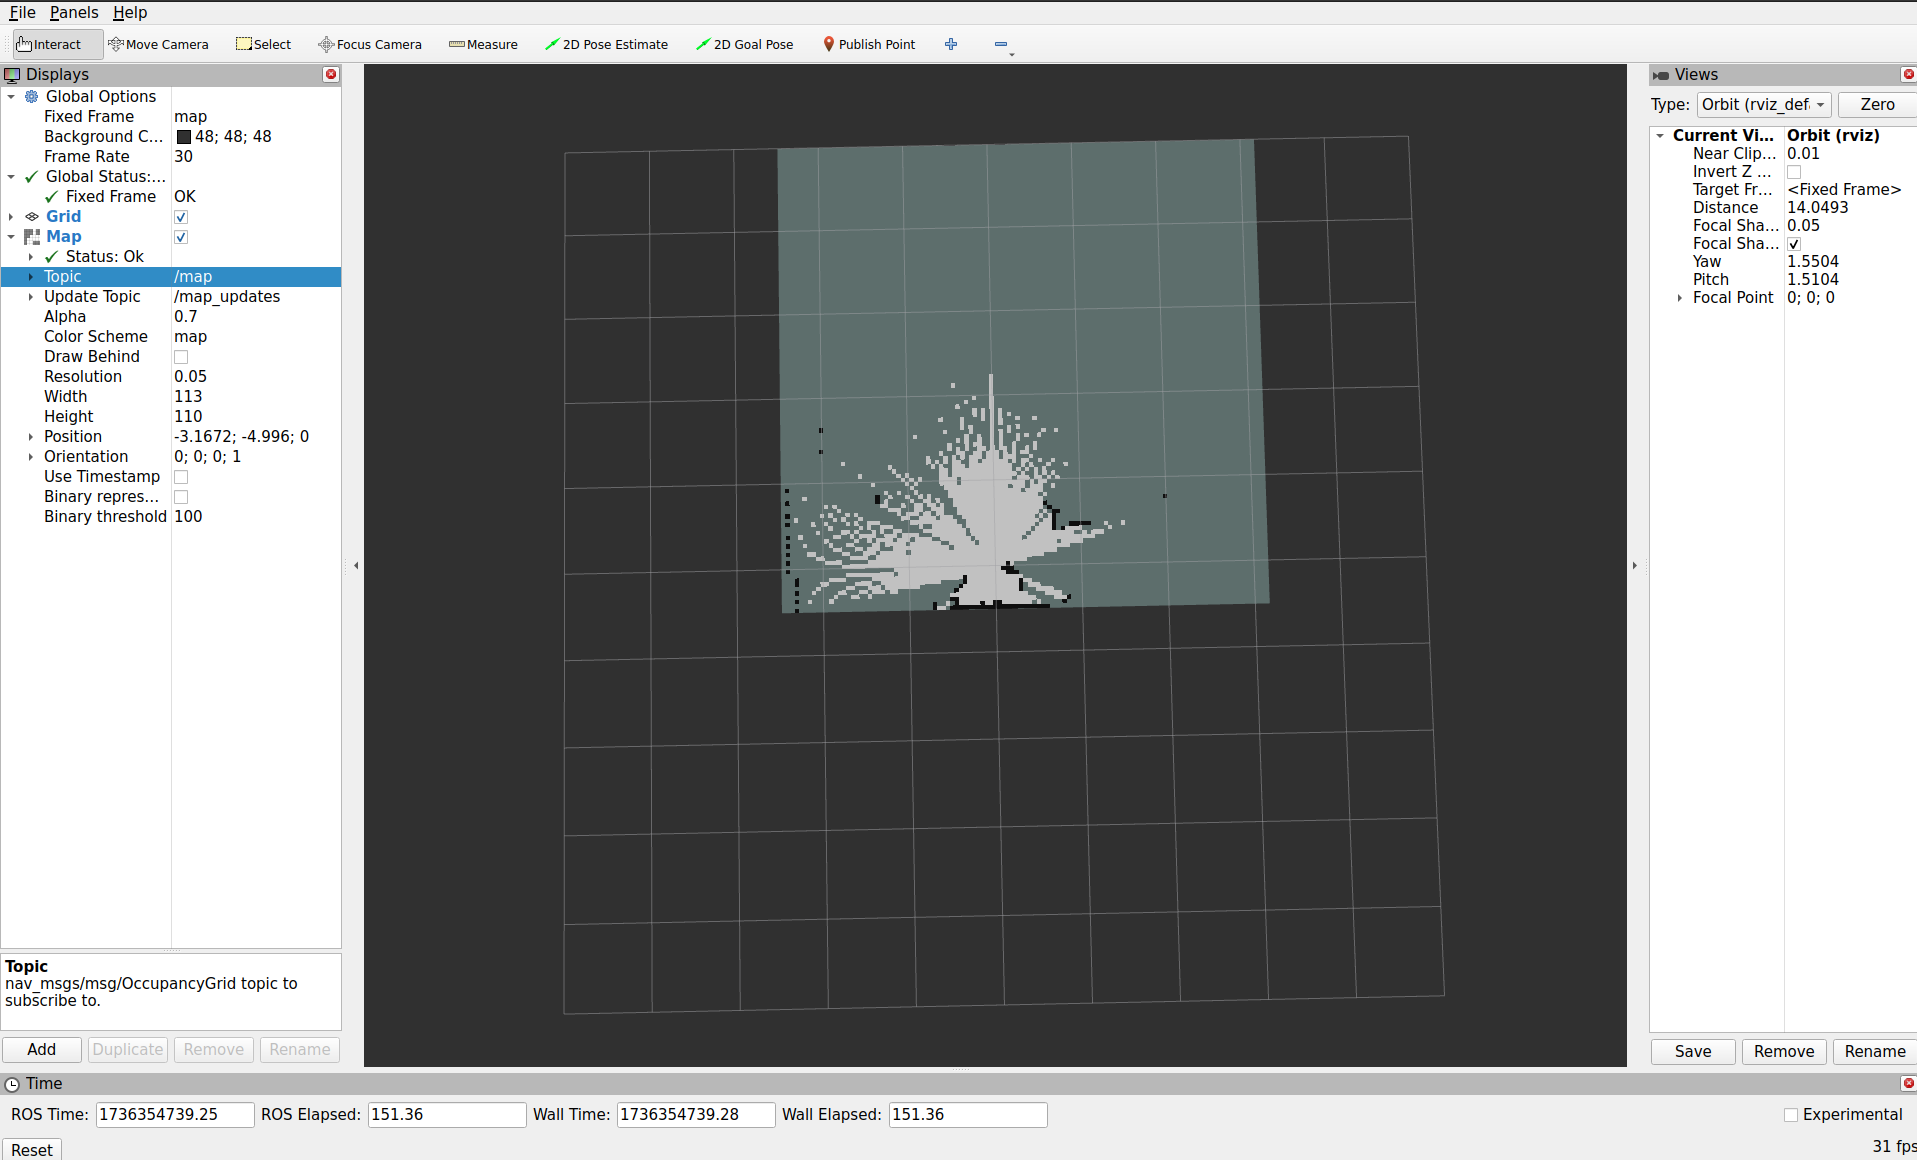
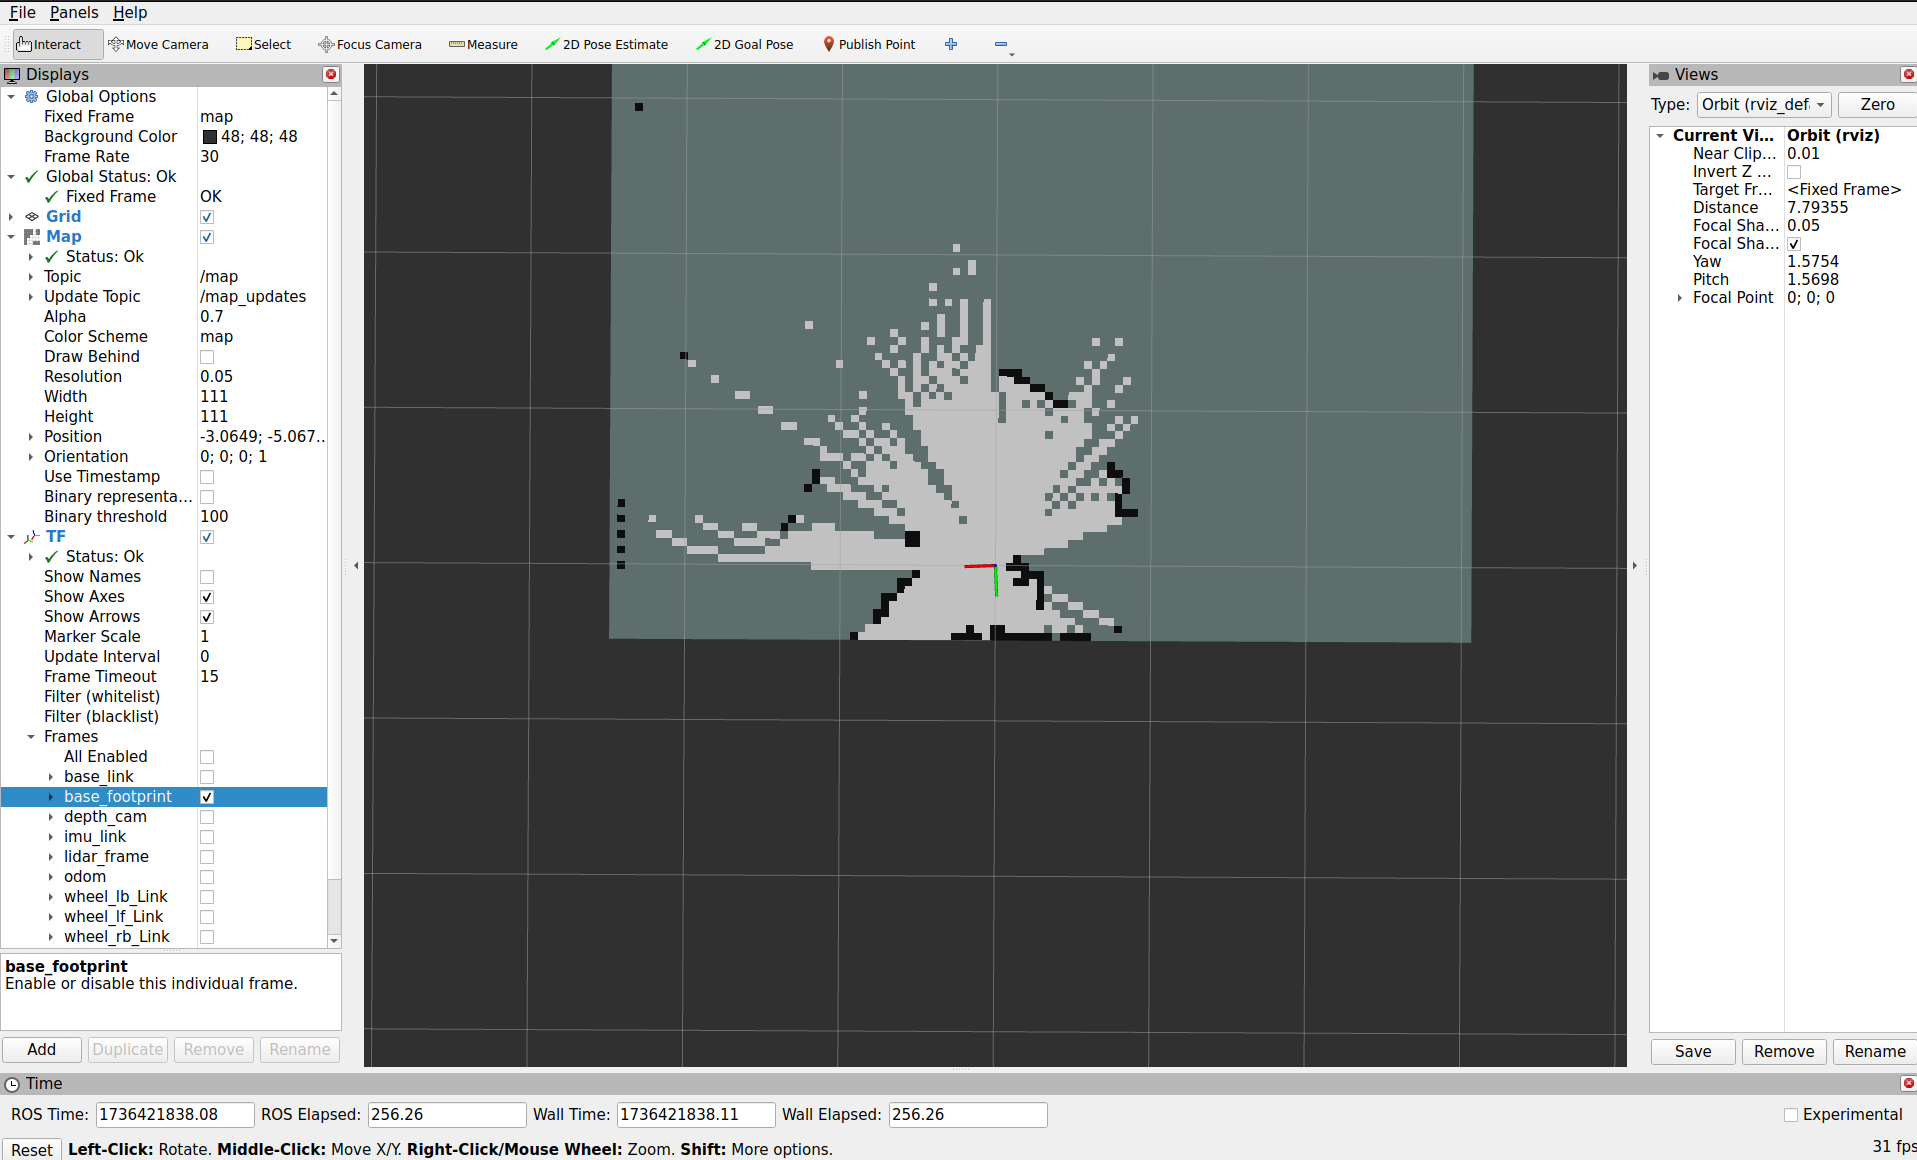
changes to reamde

diff --git a/README.md b/README.md
@@ -1,33 +1,34 @@
 # MentorPI mecanum-wheel development starter pack
-This repository aims to provide a reasonable starting position for ROS2 development on the Raspberry Pi 5 based MentorPi robot platform from Hiwonder. Specifically the version equipped with the mecanum-wheel drivetrain and the gimbal monocular camera. See: https://www.hiwonder.com/collections/raspberrypi-bionic-robot/products/mentorpi-m1?variant=41285892702295
+This repository aims to provide a reasonable starting position for ROS2 development on the Raspberry Pi 5 based MentorPi robot platform from Hiwonder. Specifically, the version equipped with the mecanum-wheel drivetrain and the gimbal monocular camera. See: https://www.hiwonder.com/collections/raspberrypi-bionic-robot/products/mentorpi-m1?variant=41285892702295
 
 # General Information
-The MentorPi plaform from Hiwonder is a Raspberry Pi 5 based robot platform. As the Raspberry Pi 5 runs normal linux in this setup, it can be thought of as a normal computer. It can therefore be used with a mouse, keyboard and a monitor as one would expect from a standard computer.
-As a development framework, ROS2 is used. ROS2 is an open-source framework for building robotic applications. It acts as the middleware between the different components of the robot and also provides tools, libraries, hardware abstraction, device drivers and more for standardised robot development.
+The MentorPi platform from Hiwonder is a Raspberry Pi 5 based robot platform. As the Raspberry Pi 5 runs normal Linux in this setup, it can be thought of as a normal computer. It can therefore be used with a mouse, keyboard and monitor as one would expect from a standard computer.
+As a development framework, ROS2 is used. ROS2 is an open-source framework for building robotic applications. It acts as the middleware between the different components of the robot and also provides tools, libraries, hardware abstraction, device drivers and more for standardized robot development.
 For more information, see the ROS2 documentation: https://docs.ros.org/en/jazzy/index.html
 
+
 # Basic Setup
-In this chapter the basic setup of the robot is explained. You will install Linux, ROS2 and all the necessary drivers for the motors, servos, camera and lidar.
+In this chapter, the basic setup of the robot is explained. You will install Linux, ROS2 and all the necessary drivers for the motors, servos, camera and LIDAR.
 Ubuntu 24.04 together with ROS2 Jazzy is used in this project.
 
 ## Linux Setup
 First, Ubuntu 24.04 needs to be installed on the Raspberry Pi 5.
 
 1. **Flash Linux Image**  
-The easiest way to flash the linux image is via the Raspberry Pi imager.
-* For windows you can download the program here: https://www.raspberrypi.com/software/
-* On Ubuntu you can simply install the program via the following command:
+The easiest way to flash the Linux image is via the Raspberry Pi imager.
+* For Windows, you can download the program here: https://www.raspberrypi.com/software/
+* On Ubuntu, you can simply install the program via the following command:
 ```bash
 sudo apt install rpi-imager
 ```
-In the Raspberry Pi imager tool choose "Raspberry Pi 5" under <Device> and under <Choose OS>: "Other general-purpose OS" -> "Ubuntu" -> "Ubuntu Desktop 24.04.1 LTS (64-bit)". Then choose the micro sd card (at least 64GB) you want to install the OS on and click next to continue following the instructions of the tool.
+In the Raspberry Pi imager tool, choose "Raspberry Pi 5" under <Device> and under <Choose OS>: "Other general-purpose OS" -> "Ubuntu" -> "Ubuntu Desktop 24.04.1 LTS (64-bit)". Then choose the micro SD-card (at least 64GB) you want to install the OS on and click next to continue following the instructions of the tool.
 
 2. **Boot for the first time**
-* Put the SD card in the Raspberry Pi 5, connect mouse, keyboard and a monitor via a micro HDMI cable and boot the Raspberry Pi 5.
+* Put the SD card in the Raspberry Pi 5, connect a mouse, keyboard and monitor via a micro HDMI cable and boot the Raspberry Pi 5.
 * Follow the installer for Ubuntu.
 
 ## Installing ROS2
-* Follow this guide: https://docs.ros.org/en/jazzy/Installation/Ubuntu-Install-Debs.html to install ROS2 Jazzy on the Raspberry Pi 5. For development it makes a lot of sense to also have an additional computer with ROS2 installed. This makes remotely diagnosing and controlling the robot much easier. Chose the **Desktop Install** both for the robot and, if applicable, your computer. 
+* Follow this guide: https://docs.ros.org/en/jazzy/Installation/Ubuntu-Install-Debs.html to install ROS2 Jazzy on the Raspberry Pi 5. For development, it makes a lot of sense to also have an additional computer with ROS2 installed. This makes remotely diagnosing and controlling the robot much easier. Chose the **Desktop Install** both for the robot and, if applicable, your computer. 
 * Add 
 ```bash
 source /opt/ros/jazzy/setup.bash
@@ -35,7 +36,7 @@ source /opt/ros/jazzy/setup.bash
 to your .bashrc file in order to source the ROS2 workspace every time a terminal is started.
 
 ### Install Additional Dependencies
-First update your package manager
+First, update your package manager:
 ```bash
 sudo apt update
 ```
@@ -79,7 +80,7 @@ sudo apt install python3-pydantic
 
 ## Setup your ROS2 workspace
 In addition to the global ROS2 workspace we just installed in /opt/ros/jazzy an additional workspace in your home directory /home/user is needed.
-In general ROS2 packages installed via the package manager get installed in the global workspace, while your own projects and code are usually organized in a separate ROS2 workspace inside your home folder. We will follow this structure.
+In general, ROS2 packages installed via the package manager get installed in the global workspace, while your own projects and code are usually organized in a separate ROS2 workspace inside your home folder. We will follow this structure.
 
 * **Create the following file structure**
 ```bash
@@ -95,11 +96,11 @@ Navigate inside your ros2_ws folder and initialize the new workspace with
 ```bash
 colcon build
 ```
-After this you can source your workspace with
+After this, you can source your workspace with
 ```bash
 source install/local_setup.bash
 ```
-You can also add this to your .bashrc file. This way your workspace is sourced every time a new terminal is opened. Make sure to use the correct path, e.g.:
+You can also add this to your .bashrc file. This way, your workspace is sourced every time a new terminal is opened. Make sure to use the correct path, e.g.:
 ```bash
 source /home/user/workspace/ros2_ws/install/local_setup.bash
 ```
@@ -135,24 +136,24 @@ The finished file structure should look like the following:
 
 ```
 * **Build the workspace again**  
-When you are in the `ros2_ws` folder you can build the workspace again with
+When you are in the `ros2_ws` folder, you can build the workspace again with
 ```bash
 colcon build
 ```
-Make sure the build proccess succeeds.
+Make sure the build process succeeds.
 
 
 # Testing
 If you successfully installed everything we can start testing.
 
 ## Test Motor Functions
-The expansion board from Hiwonder controlls all 4 wheels, the 2 pwm servos the camera is atached to and also allows for access to the IMU. 
-All this functionality is managed by the `controller` package which can be found in the `driver` folder in the src folder in your ROS2 workspace.
+The expansion board from Hiwonder controls all 4 wheels, the 2 PWM servos the camera is attached to and also allows for access to the IMU. 
+All this functionality is managed by the `controller` package, which can be found in the `driver` folder in the src folder in your ROS2 workspace.
 With
 ```bash
 ros2 launch controller controller.launch.py
 ```
-you can launch this package. You can verify a succesfull launch by typing
+you can launch this package. You can verify a successful launch by typing
 ```bash
 ros2 topic list
 ```
@@ -197,12 +198,12 @@ Now the fun part begins. Open yet another terminal and type
 ```bash
 ros2 launch peripherals joystick_control.launch.py
 ```
-This launches the joystick_control node part of the `peripherals` package. This node handles the controller. Make sure the controller is switched on. The controller should now be connected to the USB dongle pluged in to the Raspberry Pi 5. 
-The left joystick controls the linear motion of the robot, while the right controls the rotational momentum. With the D-Pad you can additional rotate the camera around. Pressing "START" resets the camera position.
+This launches the joystick_control part of the `peripherals` package. This node handles the controller. Make sure the controller is switched on. The controller should now be connected to the USB dongle plugged in to the Raspberry Pi 5. 
+The left joystick controls the linear motion of the robot, while the right controls the rotational momentum. With the D-Pad, you can additionally rotate the camera around. Pressing "START" resets the camera position.
 
 ## Test the Camera
 
-### Test the Camera with a conected Monitor
+### Test the Camera with a connected Monitor
 * Run
 ```bash
 ros2 launch peripherals usb_cam.launch.py
@@ -229,32 +230,32 @@ A window should open. In the top left dropdown menu you can choose `/ascamera/ca
 
 
 ### Test the Camera from a Remote Computer (a bit more advanced)
-Viewing the video feed from a remote computer is not as straight forward. While all `ROS2` topics published by one machine are visible by all machines running `ROS2` in the same network by default, displaying the raw video stream on a remote machine is not generally possible (bandwith limitation). Instead the `/ascamera/camera_publisher/rgb0/image_compressed` topic published by the `camera_node` is utilized. By running a decompressing node on the receving machine, we can decompress the compressed image on the receving machine and then display this decompressed image.
+Viewing the video feed from a remote computer is not as straight forward. While all `ROS2` topics published by one machine are visible by all machines running `ROS2` in the same network by default, displaying the raw video stream on a remote machine is not generally possible (bandwidth limitation). Instead, the `/ascamera/camera_publisher/rgb0/image_compressed` topic published by the `camera_node` is utilized. By running a decompressing node on the receiving machine, we can decompress the compressed image on the receiving machine and then display this decompressed image.
 
 **Requirements** for streaming the video feed to a different computer in the same network:
 - The receiving computer needs to run `ROS2` (preferably `ROS2 Jazzy`)
 - A basic `ROS2` workspace needs to be setup on the receiving computer with the `image_decompressor` package installed (The package can be downloaded from this repository)
-- Both, the Raspberry Pi 5 and the reciving computer need to be conected to the same network (Eduroam does not work)  
-**Setting up the Conection**  
+- Both, the Raspberry Pi 5 and the receiving computer need to be connected to the same network (Eduroam does not work)  
+**Setting up the Connection**  
 1. Launch the `camera` node on the Raspberry Pi 5:
 ```bash
 ros2 launch peripherals usb_cam.launch.py
 ```
-2. Run the `decompress_image_node` from the `image_decompressor` package on the receving computer:
+2. Run the `decompress_image_node` from the `image_decompressor` package on the receiving computer:
 ```bash
 ros2 run image_decompressor decompress_image_node
 ```
-3. Run `rqt_image_view` on the receving computer and select the `/decompressed_image` topic to display the decompressed image, the `decompress_image_node` publishes.
+3. Run `rqt_image_view` on the receiving computer and select the `/decompressed_image` topic to display the decompressed image, the `decompress_image_node` publishes.
 ```bash
 ros2 run rqt_image_view rqt_image_view
 ```
 
 ## Test the LIDAR
-To test the lidar you first need to launch the `controller` node again:
+To test the LIDAR, you first need to launch the `controller` node again:
 ```bash
 ros2 launch controller controller.launch.py
 ```
-After this you can launch the `ldlidar_node` present in the `ldrobot-lidar-ros2` folder:
+After this, you can launch the `ldlidar_node` present in the `ldrobot-lidar-ros2` folder:
 ```bash
 ros2 launch ldlidar_node ldlidar.launch.py
 ```
@@ -269,15 +270,15 @@ matthias@matthiasT15:~$ ros2 topic list
 /rosout
 ```
 The `/ldlidar_node/scan` is the important one. 
-Open `rivz2` either on the Rasperry Pi 5 or a different computer in the same network running `ROS2` with:
+Open `rivz2` either on the Raspberry Pi 5 or a different computer in the same network running `ROS2` with:
 ```bash
 rviz2 
 ```
-In `rviz2` klick on *map* next to *Fixed Frame* in the *Global Options* on the left side. Select *base_footprint* from the dropdown menu. Then click on *add* in the lover left corner and then select *LaserScan* from the list. Press *OK*. *LaserScan* should now appear in the left list in red. Klick on it to open a dropdown. Klick right of *Topic* in the whitespace. An empty dropdown menu should appear. Select `/ldlidar_node/scan` from this menu. The live lidar points should now be displayed in the middle. By selecting *Points* next to the *Style* field you can make the points better visible.
+In `rviz2` click on *map* next to *Fixed Frame* in the *Global Options* on the left side. Select *base_footprint* from the dropdown menu. Then click on *add* in the lover left corner and then select *LaserScan* from the list. Press *OK*. *LaserScan* should now appear in the left list in red. Click on it to open a dropdown. Click right of *Topic* in the whitespace. An empty dropdown menu should appear. Select `/ldlidar_node/scan` from this menu. The live LIDAR points should now be displayed in the middle. By selecting *Points* next to the *Style* field, you can make the points better visible.
 ![Alt Text](images/rviz_lidar_points.png "Rviz Lidar Points")
 
 ## Test SLAM
-**SLAM** is short for *Simultaneous Localization and Mapping* and describes the proccess of mapping ones souroundings while localizing oneselve inside this map. It is key for autonomous navigation in an unknown environment. The `ROS2` package `slam_toolbox` can be used to perform this using live lidar data and a complete transformation tree. This tree descibes the position of the lidar in respect to the main coordinate origin of the robot. This transformation tree is implemented in the `controller` package.
+**SLAM** is short for *Simultaneous Localization and Mapping* and describes the process of mapping one's surroundings while localizing oneself inside this map. It is key for autonomous navigation in an unknown environment. The `ROS2` package `slam_toolbox` can be used to perform this using live LIDAR data and a complete transformation tree. This tree describes the position of the LIDAR in respect to the main coordinate origin of the robot. This transformation tree is implemented in the `controller` package.
 1. Launch the `controller` node:
 ```bash
 ros2 launch controller controller.launch.py
@@ -294,12 +295,18 @@ ros2 launch orchestrator_launch slam_toolbox.launch.py
 ```bash
 rviz2
 ```
-5. Klick on *add* in the lower left corner and select *Map* from the list. Then press *OK*. Now select `/map` as the *Topic* in the dropdown Menu under the newly creaty *Map* entry in the left list.
+5. Click on *Add* in the lower left corner and select *Map* from the list. Then press *OK*. Now select `/map` as the *Topic* in the dropdown Menu under the newly created *Map* entry in the left list. The beginnings of a map should now be visible in the middle of the screen.
+6. To add the position of the robot inside the map, click *Add* again and select *TF* from the list. Then click *OK*. The position and orientation should now be displayed. Under *Frames*, you can choose which "position" you want to see. Only selecting *base_footprint* may be the most sensible. 
 ![Alt Text](images/rviz_slam.png "Rviz Lidar Points")
+7. You can now launch the joystick_control from the `peripherals` package again:
+```bash
+ros2 launch peripherals joystick_control.launch.py
+```
+Now you should be able to move around with the robot while the map is continuously updated.
 
 
 ## SSH Setup
-For easier development connecting to the Raspberry Pi 5 via SSH is strongly recomended. For this, the Raspberry Pi 5 needs to be connected to the same network as the device from which you want to access the Raspberry Pi 5 (Eduroam does not work). Once this is made shure you can look up the IP address from the Raspberry Pi 5 with
+For easier development, connecting to the Raspberry Pi 5 via SSH is strongly recommended. For this, the Raspberry Pi 5 needs to be connected to the same network as the device from which you want to access the Raspberry Pi 5 (Eduroam does not work). Once this is made sure you can look up the IP address from the Raspberry Pi 5 with
 ```bash
 hostname -I
 ```
